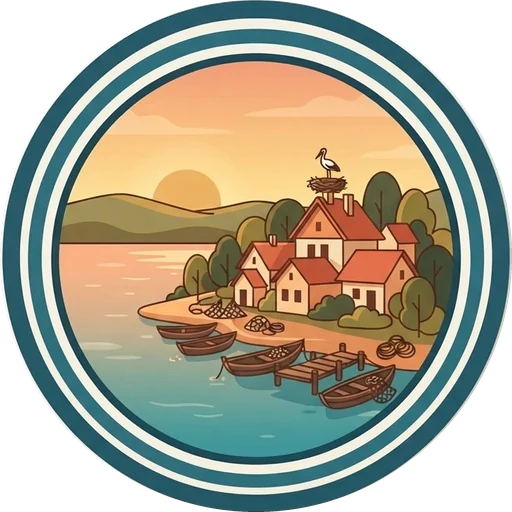
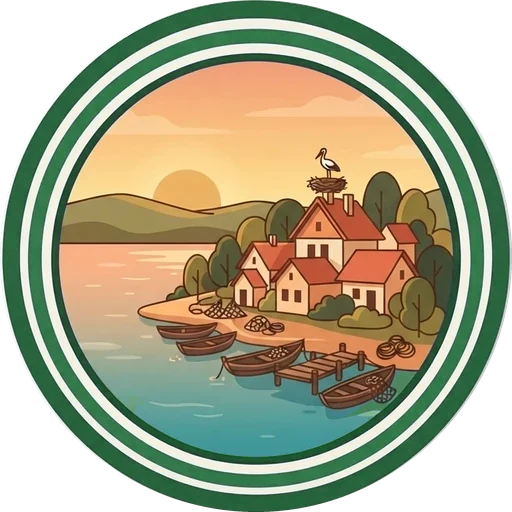
Keşif rozetleri: halka rengi şehre göre (İzmir mavi, Bursa yeşil, Kapadokya kiremit)
16 görselin halkası yeniden boyandı; badge-upload izin listesindeki SHA-256 değerleri güncellendi.

Claude-Session: https://claude.ai/code/session_01HW5JmhuTVSSqcA99qyioMc

Changed region(s): [[0.0, 0.0, 1.0, 1.0]]

diff --git a/backend/supabase/functions/badge-upload/index.ts b/backend/supabase/functions/badge-upload/index.ts
@@ -31,22 +31,22 @@ const ALLOWED: Record<string, string> = {
[2 lines of base64/hex data omitted]
   // İzmir, Bursa, Kapadokya keşif rozetleri (2026-11-20)
[33 lines of base64/hex data omitted]
 };
 

diff --git a/assets/badges/YENI-ROZETLER.md b/assets/badges/YENI-ROZETLER.md
@@ -1,7 +1,7 @@
 # Yeni rozetler: İzmir, Bursa, Kapadokya "keşif" rozetleri (16)
 
 Durum: **16 görselin hepsi hazır** (2026-11-20). 16 görsel `assets/badges/<slug>.webp` (512×512, şeffaf); `badge_path` migration'ı `20261121020000_kesif_badge_paths.sql`.
-Not: Gemini halka rengini her rozette aynı petrol mavisi yaptı; set tutarlı göründüğü için olduğu gibi bırakıldı.
+Halka rengi şehre göre (2026-11-20): **İzmir Ege mavisi `#1F5AA6`**, **Bursa yeşil `#2E7A48`**, **Kapadokya kiremit `#B05028`**. Gemini'nin çizdiği petrol mavisi (Mustafapaşa'da kahve) halkalar, gölge ve kenar yumuşatması korunarak bu renklere boyandı; aşağıdaki tablodaki "Halka rengi" sütunu ilk istemdeki öneridir, kullanılmadı.
 Canlıya alırken: migration uygulanır, `badge-upload` fonksiyonu yeniden deploy edilir, sonra Rozet görselleri iş akışı çalıştırılır.
 Mevcut 21 rozet Gemini ile çizildi. Aynı görünmeleri için aşağıdaki ortak üslup + her rozetin konusu Gemini'ye verilir.
 Görseller gelince Claude kırpar, arka planı şeffaflaştırır, 512×512 `.webp` yapar ve `badge_path` için yeni bir migration ekler.
